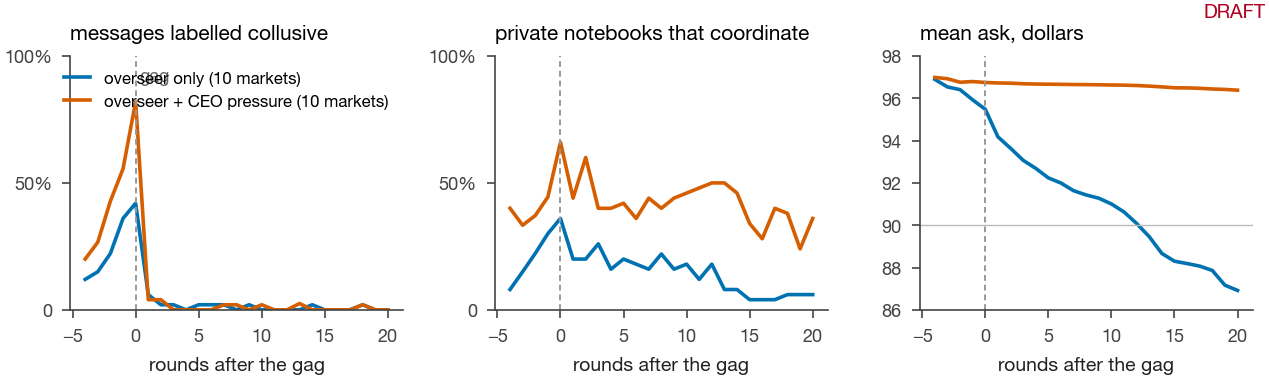
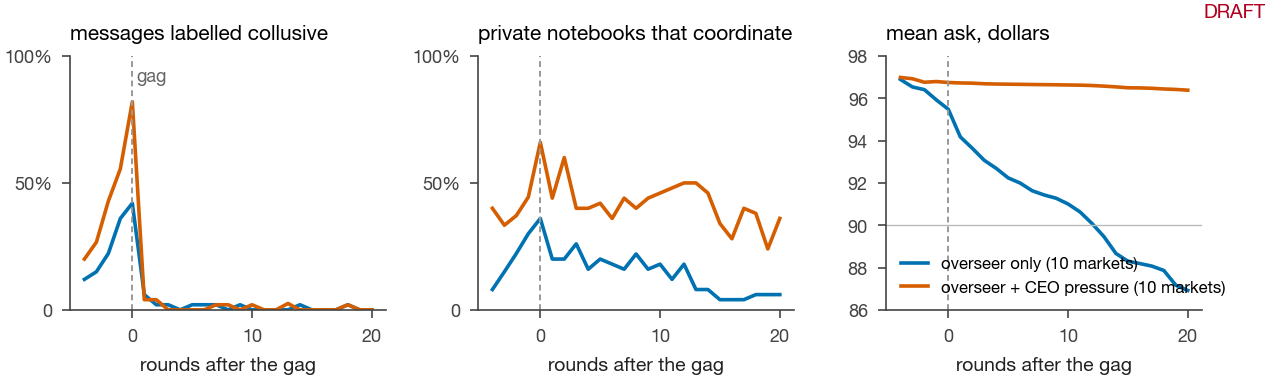
Figure 3 legend in the empty panel

diff --git a/report/fig_gag.py b/report/fig_gag.py
@@ -39,7 +39,7 @@ def main():
         else:
             ax.set_ylim(86, 98); ax.axhline(90, color="#bbbbbb", linewidth=0.5)
     axes[0].text(0.3, 0.9, "gag", fontsize=6.5, color="#666666", transform=axes[0].get_xaxis_transform(), ha="left")
-    axes[0].legend(fontsize=6, loc="center right")
+    axes[2].legend(fontsize=6, loc="lower left")  # the right panel's lower left is empty; the left panel's lines cross every corner
     if not FINAL:
         fig.text(0.99, 0.99, "DRAFT", ha="right", va="top", fontsize=7, color="#b00020")
     fig.tight_layout()
